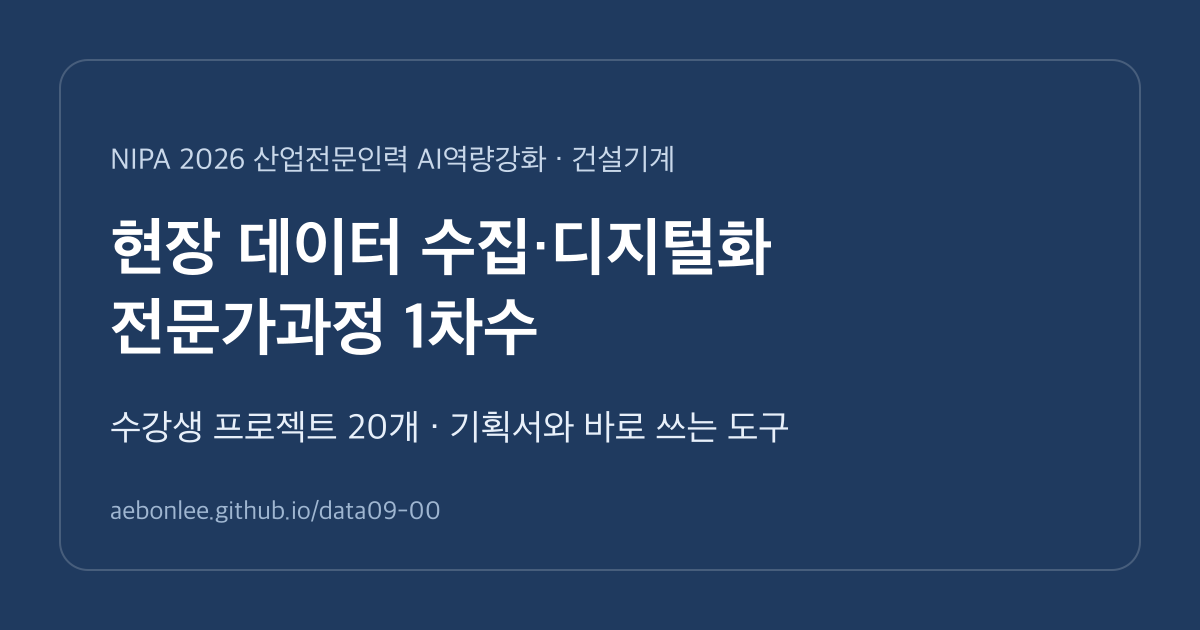
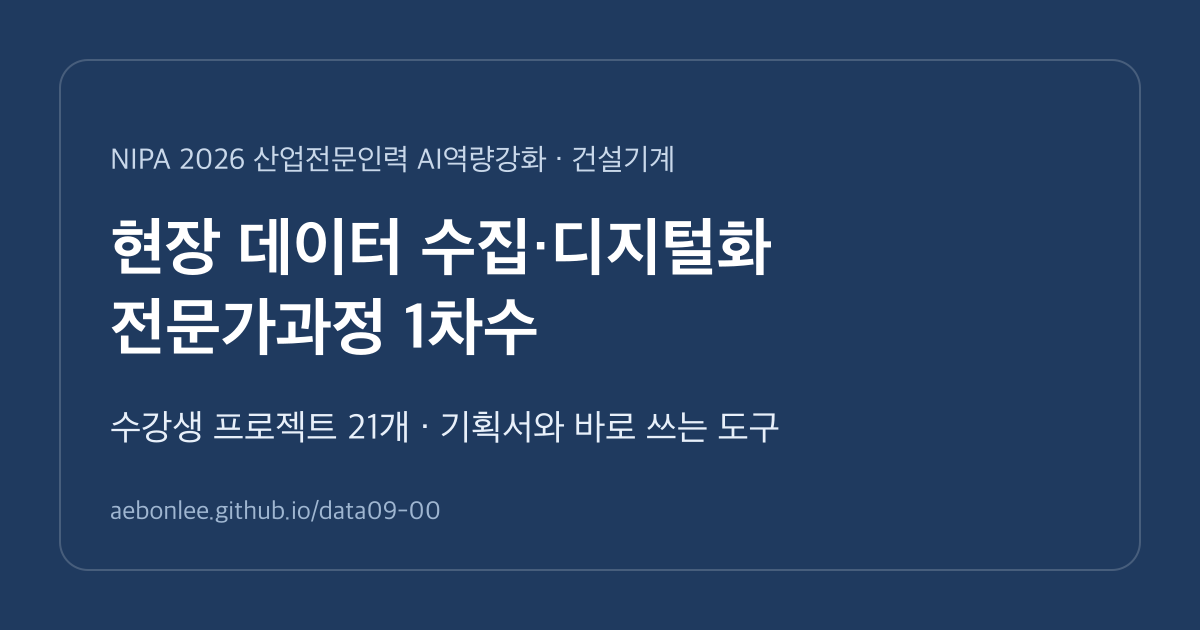
목록 갱신 — data09-21(김영현 · 가족 기프티콘 관리) 추가, 과제 21개 · OG 이미지 재생성

Changed region(s): [[0.3083, 0.6333, 0.6475, 0.6937]]

diff --git a/data/projects.js b/data/projects.js
@@ -369,6 +369,24 @@ window.PROJECTS = [
     "repoUrl": "https://github.com/aebonlee/data09-20",
     "planUrl": "https://github.com/aebonlee/data09-20/blob/main/docs/01_%ED%94%84%EB%A1%9C%EC%A0%9D%ED%8A%B8_%EA%B8%B0%ED%9A%8D%EC%84%9C.md",
     "planDocx": "https://github.com/aebonlee/data09-20/raw/main/docs/01_%ED%94%84%EB%A1%9C%EC%A0%9D%ED%8A%B8_%EA%B8%B0%ED%9A%8D%EC%84%9C.docx"
+  },
+  {
+    "no": "21",
+    "repo": "data09-21",
+    "name": "김영현",
+    "title": "가족 기프티콘 관리",
+    "oneLine": "가족이 함께 기프티콘을 사진과 함께 등록하고, 유효기간 D-day·사용 여부·예약자를 한눈에 보며 「사용함」을 직접 체크하는 보관함",
+    "kind": "웹 도구",
+    "stage": "1단계 개발 완료 (2026-09-29)",
+    "lastDate": "2026-09-29",
+    "planNote": "패들릿 제출 원문 기반, 1단계 범위는 강사 방향(간결하게 · 사용 여부는 사용자가 직접 · 실제 DB · 한눈에 보이게)에 맞춤",
+    "extras": [],
+    "planVersion": "v0.1",
+    "hasDb": true,
+    "toolUrl": "https://aebonlee.github.io/data09-21/",
+    "repoUrl": "https://github.com/aebonlee/data09-21",
+    "planUrl": "https://github.com/aebonlee/data09-21/blob/main/docs/01_%ED%94%84%EB%A1%9C%EC%A0%9D%ED%8A%B8_%EA%B8%B0%ED%9A%8D%EC%84%9C.md",
+    "planDocx": "https://github.com/aebonlee/data09-21/raw/main/docs/01_%ED%94%84%EB%A1%9C%EC%A0%9D%ED%8A%B8_%EA%B8%B0%ED%9A%8D%EC%84%9C.docx"
   }
 ];
 window.PROJECTS_UPDATED = "2026-09-29";
